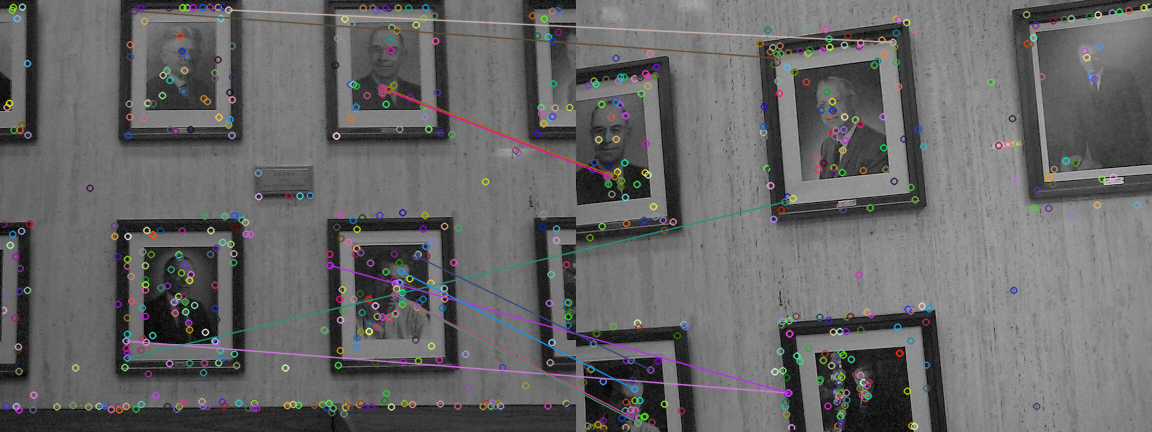
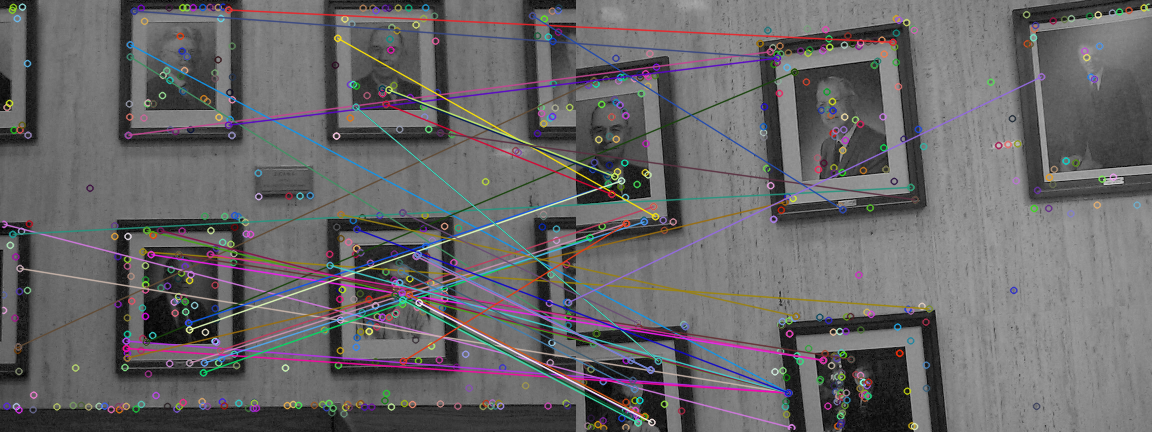
Bonus task 2

diff --git a/bonusTask2/main.py b/bonusTask2/main.py
@@ -1,0 +1,116 @@
+import numpy as np
+import cv2
+
+def main():
+	#Reading in correspondance points
+	w0 = readF("inputs/2D/w0.txt")
+	w1 = readF("inputs/2D/w1.txt")	
+
+	#Pretranslating so the image can be stitched at the end
+	
+	xtr = 500.0
+	ytr = 300.0
+	for i in range(len(w0)):
+		w0[i][0] += xtr
+		w0[i][1] += ytr
+		w1[i][0] += xtr
+		w1[i][1] += ytr
+
+	#Solving for transformation matrix T
+	col1 = []
+	for i in range(len(w0)):
+		col1.append([1])
+	w0 = np.append(w0,col1, axis = 1)
+	
+	col0 = []
+	for i in range(len(w0)):
+		col0.append([0])
+	w0 = np.append(w0,col0, axis = 1)
+	w0 = np.append(w0,col0, axis = 1)
+	w0 = np.append(w0,col0, axis = 1)
+		
+	l = len(w0)
+	for i in range(l):
+		w0 = np.append(w0,[[0,0,0, w0[i][0], w0[i][1], w0[i][2]]], axis = 0)
+		
+	wpr = []
+	l = len(w1)
+	for i in range(l):
+		wpr.append([w1[i][0]])
+	for i in range(l):
+		wpr.append([w1[i][1]])
+	
+	sol = np.linalg.lstsq(w0, wpr, rcond = -1)
+
+	T = np.array([[sol[0][0][0],sol[0][1][0], sol[0][2][0]], [sol[0][3][0],sol[0][4][0], sol[0][5][0]]])
+
+	print("2D transformation array:\n", T)
+
+	#Getting images
+	print("---------------------------------------")
+	im0 = cv2.imread('inputs/2D/w0.png')
+	im1 = cv2.imread('inputs/2D/w1.png')
+
+	rows,cols,ch = im0.shape
+	r1, c1,ch1 = im1.shape
+
+	#Moving and padding
+	T2 = np.array([[1.0,0.0,xtr],[0.0,1.0,ytr]])
+
+	tempim0 = cv2.warpAffine(im0, T2, (2000, 1000))
+
+	#Warping
+	warped0 = cv2.warpAffine(tempim0, T, (2000, 1000))
+
+
+	#Stitching
+	for i in range(r1):
+		for j in range(c1):
+			warped0[i+int(ytr)][j+int(xtr)] = im1[i][j]
+
+	cv2.imwrite("outputs/warped0.png", warped0)
+
+	#Reading in 3D correspondance points
+	w0 = readF("inputs/3D/w0.txt")
+	w1 = readF("inputs/3D/w1.txt")
+
+	l = len(w0)
+
+	x = np.zeros((3*l, 12))
+
+	for i in range(l):
+		temp = [w0[i][0],w0[i][1],w0[i][2],1]
+		x[3*i][0] = temp[0]
+		x[3*i][1] = temp[1]
+		x[3*i][2] = temp[2]
+		x[3*i][3] = temp[3]
+		x[3*i+1][4] = temp[0]
+		x[3*i+1][5] = temp[1]
+		x[3*i+1][6] = temp[2]
+		x[3*i+1][7] = temp[3]
+		x[3*i+2][8] = temp[0]
+		x[3*i+2][9] = temp[1]
+		x[3*i+2][10] = temp[2]
+		x[3*i+2][11] = temp[3]
+	
+	xpr = np.array([])
+
+	for line in w1:
+		xpr = np.append(xpr, line)
+	
+	a = np.linalg.lstsq(x, xpr, rcond = -1)
+	a = a[0]
+	
+	T3D = np.array([[a[0],a[1],a[2],a[3]],[a[4],a[5],a[6],a[7]],[a[8],a[9],a[10],a[11]],[0,0,0,1]])
+
+	print("3D transformation array:\n", T3D)
+	
+	print("Original ............................. vs .......................... transformation")
+	for i in range(l):
+		print(w1[i], ".....", T3D.dot([w0[i][0],w0[i][1],w0[i][2],1]))
+	
+
+def readF(filename):
+	return np.genfromtxt(filename, delimiter='')
+
+main()

diff --git a/task3/task3.py b/task3/task3.py
@@ -33,7 +33,7 @@ def main():
 
 	good = []
 	for m,n in matches:
-		if(m.distance < 0.5*n.distance):
+		if(m.distance < .7*n.distance):
 			good.append([m])
 	
 	matchedIm = cv2.drawMatchesKnn(w0,kps0,w1,kps1,good,None,flags = cv2.DrawMatchesFlags_NOT_DRAW_SINGLE_POINTS)
@@ -62,12 +62,82 @@ def main():
 
 	good = []
 	for m,n in matches:
-		if(m.distance < 0.6*n.distance):
+		if(m.distance < 0.7*n.distance):
 			good.append([m])
 	
 	matchedIm = cv2.drawMatchesKnn(w0,kps0,w1,kps1,good,None,flags = cv2.DrawMatchesFlags_NOT_DRAW_SINGLE_POINTS)
 
 	cv2.imwrite("outputs/matchedImSURF.png", matchedIm)
+	print("SURF matching written.")
+
+	#Same procedure for images 2 and 3
+
+	w2 = cv2.imread("inputs/w2.png")
+	w2 = cv2.cvtColor(w2, cv2.COLOR_BGR2RGB) 
+	w3 = cv2.imread("inputs/w3.png")
+	w3 = cv2.cvtColor(w3, cv2.COLOR_BGR2RGB) 
+
+	#Getting image difference
+	diff = abs(w2 - w3)	
+	cv2.imwrite('outputs/diff23.png', diff)
+	print("Difference written.")
+	
+	#Getting SIFT descriptors for both images
+	detector = cv2.xfeatures2d.SIFT_create()
+	kps2, des2 = detector.detectAndCompute(w2,None)
+	kps3, des3 = detector.detectAndCompute(w3,None)
+
+	#Write SIFT images
+	w2_s = w2
+	w3_s = w3
+	cv2.drawKeypoints(w2, kps2, w2_s)
+	cv2.drawKeypoints(w3, kps3, w3_s)
+	
+	cv2.imwrite('outputs/w2_sift.png', w2_s)
+	cv2.imwrite('outputs/w3_sift.png', w3_s)
+
+	#Matching SIFT
+	matcher = cv2.BFMatcher()
+	
+	matches = matcher.knnMatch(des2,des3,k=2)
+
+	good = []
+	for m,n in matches:
+		if(m.distance < .7*n.distance):
+			good.append([m])
+	
+	matchedIm = cv2.drawMatchesKnn(w2,kps2,w3,kps3,good,None,flags = cv2.DrawMatchesFlags_NOT_DRAW_SINGLE_POINTS)
+
+	cv2.imwrite("outputs/matchedImSIFT23.png", matchedIm)
+	print("SIFT matching written.")
+
+	#Getting SURF descriptors for both images
+	detector = cv2.xfeatures2d.SURF_create()
+	kps2, des2 = detector.detectAndCompute(w0,None)
+	kps3, des3 = detector.detectAndCompute(w1,None)
+
+	#Write SURF images
+	w2_s = w2
+	w3_s = w3
+	cv2.drawKeypoints(w2, kps2, w2_s)
+	cv2.drawKeypoints(w3, kps3, w3_s)
+	
+	cv2.imwrite('outputs/w2_surf.png', w2_s)
+	cv2.imwrite('outputs/w3_surf.png', w3_s)
+
+	#Matching SURF
+	matcher = cv2.BFMatcher()
+	
+	matches = matcher.knnMatch(des2,des3,k=2)
+
+	good = []
+	for m,n in matches:
+		if(m.distance < 0.7*n.distance):
+			good.append([m])
+	
+	matchedIm = cv2.drawMatchesKnn(w2,kps2,w3,kps3,good,None,flags = cv2.DrawMatchesFlags_NOT_DRAW_SINGLE_POINTS)
+
+	cv2.imwrite("outputs/matchedImSURF23.png", matchedIm)
 	print("SURF matching written.")
 	
 

diff --git a/task3/task3-simple.py b/task3/task3-simple.py
@@ -1,0 +1,23 @@
+import numpy as np
+import cv2
+
+def main():
+	w0 = cv2.imread("inputs/w2.png")
+	w0 = cv2.cvtColor(w0, cv2.COLOR_BGR2RGB) 
+	w1 = cv2.imread("inputs/w3.png")
+	w1 = cv2.cvtColor(w1, cv2.COLOR_BGR2RGB) 
+
+	#Getting image difference
+	diff = abs(w0 - w1)	
+	cv2.imwrite('outputs/diff23.png', diff)
+	print("Difference written.")
+	
+
+def printKeypoints(kps):
+	for p in kps:
+		printKey(p)
+
+def printKey(keypoint):
+	print("[" + str(keypoint.pt[0]) + ", " + str(keypoint.pt[1]) + ", " +str(keypoint.size) + ", " + str(keypoint.angle) + "]")
+
+main()

diff --git a/README.md b/README.md
@@ -22,7 +22,9 @@ I have decided to create a double linked list, a data structure that can be rota
 
 ## Required Task 3
 
-Using python 3.6.7. install.sh installs the necessary libraries. Make sure you have pip3 available. Installs numpy, opencv-python, opencv-contrib-python, and scipy. Specific versions of opencv and opencv-contrib were used to run this due to them having SIFT and SURF descriptor support, which has been removed for more recent versions.
+Note: I thought we had to find the differences between the 2D_registration images, so in addition to doing differences, I tried to do SIFT and SURF descriptor matching. I included the results to both pairs of images. See outputs "task3/outputs" directory to see what I mean. Run "task3/task3-simple.py" to do the basics. If you want to see the SIFT and SURF matching tasks, run "task3/task3.py".
+
+Using python 3.6.7. install.sh installs the necessary libraries. Make sure you have pip3 available. Installs numpy, opencv-python, and opencv-contrib-python. Specific versions of opencv and opencv-contrib were used to run this due to them having SIFT and SURF descriptor support, which has been removed for more recent versions.
 
 I have implemented a python script that opens the images with opencv, first calculates the RGB pixel diferences and writes the difference image to "task2/outputs/diff.png". Then, the script detects the SIFT descriptors using opencv libraries, finds a matching of the descriptors and prints the image matching to "task2/outputs/matchedImSIFT.png". Lastly, the script detects the SURF descriptors using opencv libraries, finds a matching of the descriptors and prints the image matching to "task2/outputs/matchedImSIFT.png". The matching was done using opencv's implementation of 2 nearest neighbors.
 
@@ -38,6 +40,19 @@ I implemented the algorithm to repeat the following procedure:
 	* for dependency d
 		* if(d is not satisfied) swap the elements
 	* if(no changes have been made) exit, no solution
+* return solution
+
+## Bonus Task 2
+
+Make sure opencv is installed. python3 main.py to run the program.
+
+The program computes the translation matrix for a bunch of 2D and 3D coordinates. I had some trouble warping images without them going out of bounds. I am certain that my 2D and 3D work perfectly, however, due to my moving the images to avoid warping images out of bounds, I lost a bit of precision since I solved after translation. I assumed we were not allowed to use the built in opencv translation matrix solver, so I wrote the code, but I used the numpy linear system of equation solver. The original and transformed values are not perfect, but are very close. The 2D values suffered a lot due to pre-translation, but if you are happy with an incomplete image, it still stitches perfectly.
+
+The output image is in the output folder. 
+
+## Bonus Task 3
+
+I was unsure what to do on this one. The link to the linux Qt 4.8 source was broken. I tried looking for it [https://download.qt.io/archive/qt/4.8/4.8.7/] in the website, but downloads were failing for some reason. Does it run on other versions of Qt? I was wondering why the version requirement was so specific. 
 
 ## Sources:
 [https://stackoverflow.com]
